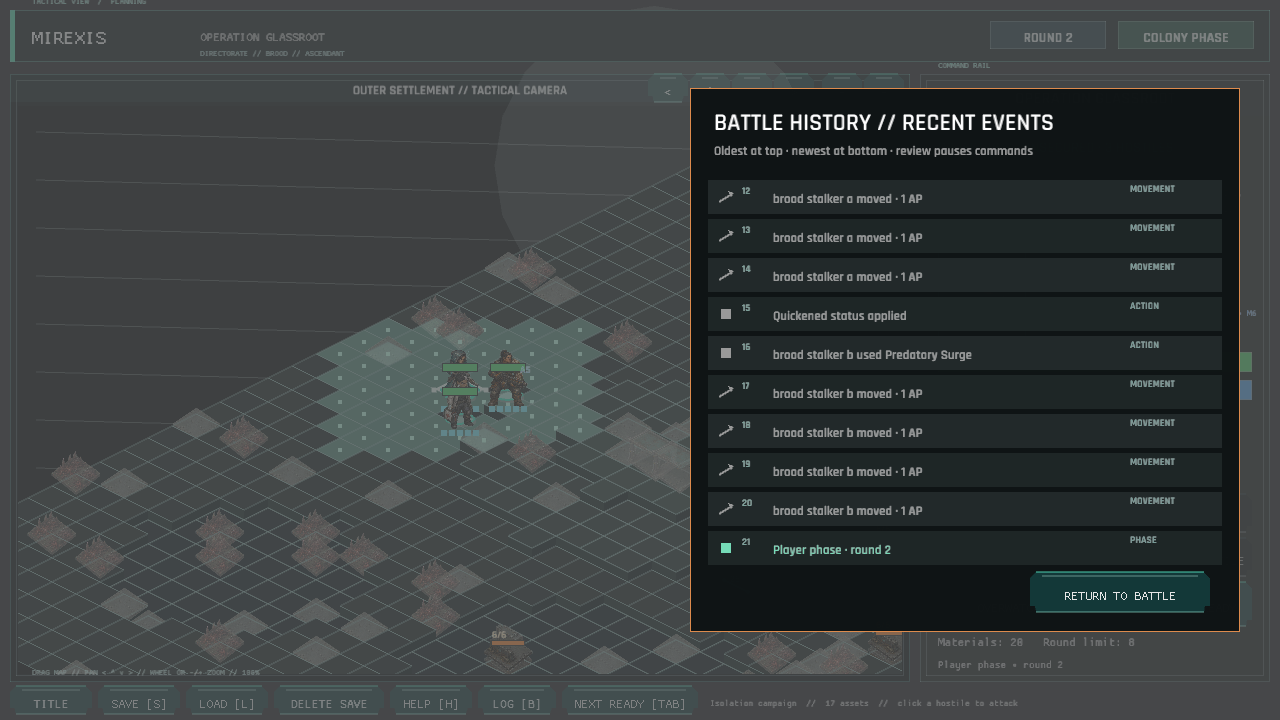
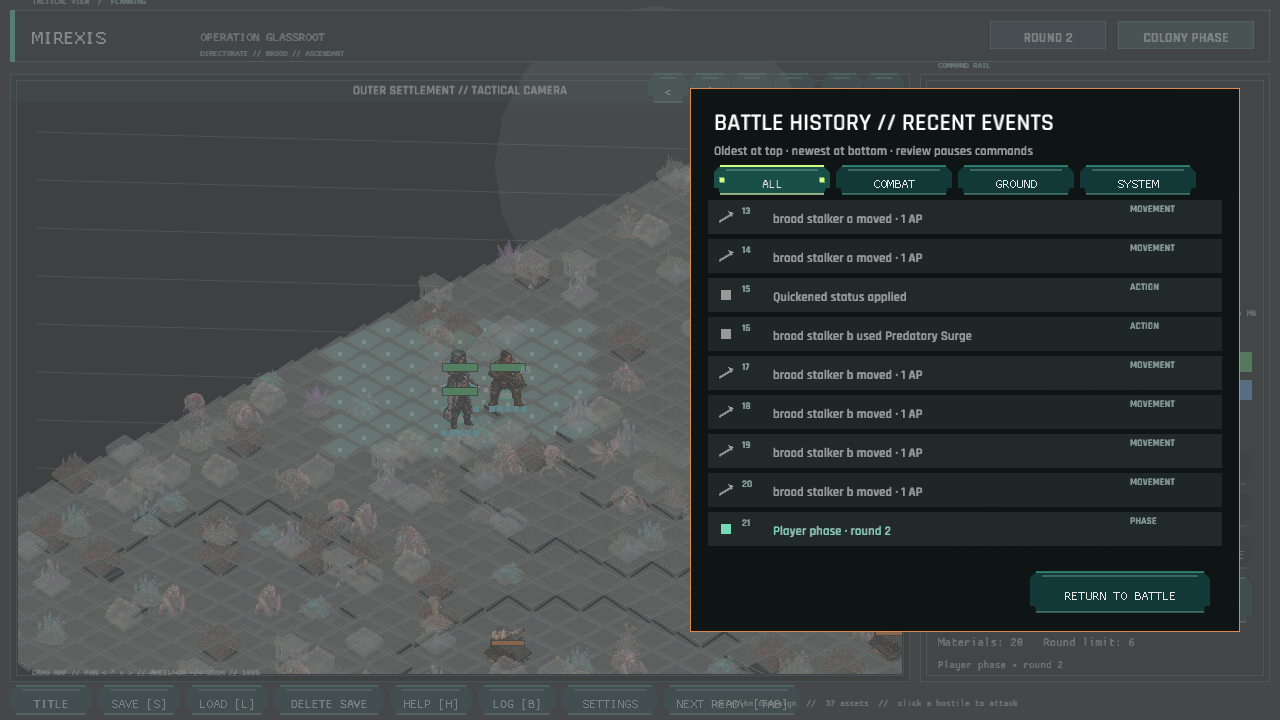
The battle ledger opens its channels to the colony (Battle-log filters, §5.7)
The battle history fulfilled chronology and close, but its long mixed event stream offered no way to isolate the information a player was reviewing. Add touch-visible ALL, COMBAT, GROUND, and SYSTEM filters, preserve original event numbering, and explain the empty-filter state without changing tactical simulation.

Refresh the battle-log capture and integrity ledger, advance the content version to 1.137.0, and extract application bootstrap from the near-limit game module. Verified with formatting, 411 tests, strict clippy, source-size checks, capture audit, parameterless publish.ps1, and browser smoke.

Changed region(s): [[0.0, 0.2139, 0.9375, 1.0]]

diff --git a/src/battle_log_ui.rs b/src/battle_log_ui.rs
@@ -1,14 +1,26 @@
 //! Expandable recent battle-event history over the live tactical field.
 
-use crate::state::GameSession;
+use crate::state::{BattleEvent, GameSession};
 use crate::ui::UiAction;
-use crate::ui_widgets::{button, event_summary};
+use crate::ui_action::BattleLogFilter;
+use crate::ui_widgets::{button, button_with_state, event_summary};
 use macroquad::prelude::*;
 use macroquad_toolkit::prelude::{dark, draw_surface, SurfaceStyle, TextStyle};
 
-const VISIBLE_EVENTS: usize = 10;
+const VISIBLE_EVENTS: usize = 9;
+const FILTERS: [(BattleLogFilter, &str); 4] = [
+    (BattleLogFilter::All, "ALL"),
+    (BattleLogFilter::Combat, "COMBAT"),
+    (BattleLogFilter::Ground, "GROUND"),
+    (BattleLogFilter::System, "SYSTEM"),
+];
 
-pub(crate) fn draw(session: &GameSession, mouse: Vec2, actions: &mut Vec<UiAction>) {
+pub(crate) fn draw(
+    session: &GameSession,
+    filter: BattleLogFilter,
+    mouse: Vec2,
+    actions: &mut Vec<UiAction>,
+) {
     draw_rectangle(0.0, 0.0, 1280.0, 720.0, Color::new(0.01, 0.02, 0.025, 0.62));
     let panel = Rect::new(690.0, 88.0, 550.0, 544.0);
     draw_surface(
@@ -28,13 +40,27 @@ pub(crate) fn draw(session: &GameSession, mouse: Vec2, actions: &mut Vec<UiActio
         panel.y + 67.0,
         TextStyle::new(13.0, dark::TEXT_DIM).params(),
     );
-    let start = session
+    for (index, (option, label)) in FILTERS.iter().enumerate() {
+        let rect = Rect::new(
+            panel.x + 24.0 + index as f32 * 122.0,
+            panel.y + 78.0,
+            116.0,
+            28.0,
+        );
+        if button_with_state(rect, label, true, filter == *option, mouse) {
+            actions.push(UiAction::SetBattleLogFilter(*option));
+        }
+    }
+    let filtered_events = session
         .tactical
         .event_log
-        .len()
-        .saturating_sub(VISIBLE_EVENTS);
-    for (row, event) in session.tactical.event_log[start..].iter().enumerate() {
-        let y = panel.y + 92.0 + row as f32 * 39.0;
+        .iter()
+        .enumerate()
+        .filter(|(_, event)| filter_matches(filter, event))
+        .collect::<Vec<_>>();
+    let start = filtered_events.len().saturating_sub(VISIBLE_EVENTS);
+    for (row, &(event_index, event)) in filtered_events[start..].iter().enumerate() {
+        let y = panel.y + 112.0 + row as f32 * 39.0;
         let row_rect = Rect::new(panel.x + 18.0, y, panel.w - 36.0, 34.0);
         draw_rectangle(
             row_rect.x,
@@ -49,7 +75,7 @@ pub(crate) fn draw(session: &GameSession, mouse: Vec2, actions: &mut Vec<UiActio
         );
         draw_event_icon(event, vec2(row_rect.x + 18.0, row_rect.y + 17.0));
         draw_text_ex(
-            format!("{:02}", start + row + 1),
+            format!("{:02}", event_index + 1),
             row_rect.x + 34.0,
             row_rect.y + 14.0,
             TextStyle::new(10.0, Color::new(0.46, 0.66, 0.62, 1.0)).params(),
@@ -67,11 +93,15 @@ pub(crate) fn draw(session: &GameSession, mouse: Vec2, actions: &mut Vec<UiActio
             TextStyle::new(10.0, Color::new(0.45, 0.62, 0.60, 1.0)).params(),
         );
     }
-    if session.tactical.event_log.is_empty() {
+    if filtered_events.is_empty() {
         draw_text_ex(
-            "No tactical events recorded yet.",
+            if session.tactical.event_log.is_empty() {
+                "No tactical events recorded yet."
+            } else {
+                "No events match this filter."
+            },
             panel.x + 24.0,
-            panel.y + 118.0,
+            panel.y + 236.0,
             TextStyle::new(15.0, dark::TEXT_DIM).params(),
         );
     }
@@ -90,8 +120,31 @@ pub(crate) fn draw(session: &GameSession, mouse: Vec2, actions: &mut Vec<UiActio
     }
 }
 
-fn event_kind(event: &crate::state::BattleEvent) -> &'static str {
-    use crate::state::BattleEvent::*;
+fn filter_matches(filter: BattleLogFilter, event: &BattleEvent) -> bool {
+    filter == BattleLogFilter::All || event_filter(event) == filter
+}
+
+fn event_filter(event: &BattleEvent) -> BattleLogFilter {
+    use BattleEvent::*;
+    match event {
+        AttackRolled { .. }
+        | DamageApplied { .. }
+        | UnitIncapacitated { .. }
+        | OverwatchSet { .. }
+        | ReactionTriggered { .. } => BattleLogFilter::Combat,
+        UnitMoved { .. }
+        | ExtractionCompleted { .. }
+        | CoverDamaged { .. }
+        | CoverDestroyed { .. }
+        | HazardTriggered { .. }
+        | HazardConverted { .. }
+        | ReinforcementsArrived { .. } => BattleLogFilter::Ground,
+        _ => BattleLogFilter::System,
+    }
+}
+
+fn event_kind(event: &BattleEvent) -> &'static str {
+    use BattleEvent::*;
     match event {
         UnitMoved { .. } => "MOVEMENT",
         AttackRolled { .. } | ReactionTriggered { .. } => "ATTACK",
@@ -139,14 +192,18 @@ fn draw_event_icon(event: &crate::state::BattleEvent, center: Vec2) {
     }
 }
 
-fn event_color(event: &crate::state::BattleEvent) -> Color {
+fn event_color(event: &BattleEvent) -> Color {
     match event {
-        crate::state::BattleEvent::DamageApplied { .. }
-        | crate::state::BattleEvent::UnitIncapacitated { .. }
-        | crate::state::BattleEvent::HazardTriggered { .. } => Color::new(0.98, 0.55, 0.38, 1.0),
-        crate::state::BattleEvent::HazardConverted { .. } => Color::new(0.42, 0.94, 0.72, 1.0),
-        crate::state::BattleEvent::PhaseStarted { .. }
-        | crate::state::BattleEvent::BattleEnded { .. } => Color::new(0.46, 0.86, 0.72, 1.0),
+        BattleEvent::DamageApplied { .. }
+        | BattleEvent::UnitIncapacitated { .. }
+        | BattleEvent::HazardTriggered { .. } => Color::new(0.98, 0.55, 0.38, 1.0),
+        BattleEvent::HazardConverted { .. } => Color::new(0.42, 0.94, 0.72, 1.0),
+        BattleEvent::PhaseStarted { .. } | BattleEvent::BattleEnded { .. } => {
+            Color::new(0.46, 0.86, 0.72, 1.0)
+        }
         _ => dark::TEXT_DIM,
     }
 }
+
+#[cfg(test)]
+mod tests;

diff --git a/src/game.rs b/src/game.rs
@@ -32,6 +32,7 @@ use crate::grid_ui::WorldCamera;
 use crate::phase_replay::PhaseReplay;
 use crate::state::{GameSession, MissionOutcome};
 use crate::ui::{self, TargetingView, UiAction, UiContext};
+use crate::ui_action::BattleLogFilter;
 use crate::visual_assets::VisualCatalog;
 use macroquad::prelude::*;
 use macroquad_toolkit::assets::AssetManager;
@@ -62,6 +63,7 @@ pub struct Game {
     targeting: Option<TacticalTargeting>,
     show_tactical_help: bool,
     show_battle_log: bool,
+    battle_log_filter: BattleLogFilter,
     combat_feedback: CombatFeedback,
     observed_event_count: usize,
     phase_replay: PhaseReplay,
@@ -197,6 +199,7 @@ impl Game {
                     }),
                     show_help: self.show_tactical_help,
                     show_battle_log: self.show_battle_log,
+                    battle_log_filter: self.battle_log_filter,
                     show_settings: self.show_settings,
                 },
                 &mut self.tactical_camera,
@@ -705,6 +708,7 @@ impl Game {
                 self.show_tactical_help = false;
                 self.targeting = None;
             }
+            UiAction::SetBattleLogFilter(filter) => self.battle_log_filter = filter,
             UiAction::Save => self.save_game(),
             UiAction::Load => self.load_game(),
             _ => unreachable!("prehandled application action reached the game state match"),

diff --git a/src/battle_log_ui/tests.rs b/src/battle_log_ui/tests.rs
@@ -1,0 +1,45 @@
+use super::*;
+use crate::state::{BattleEvent, TacticalPhase};
+
+fn attack_event() -> BattleEvent {
+    BattleEvent::AttackRolled {
+        attacker_id: "mara_venn".to_owned(),
+        target_id: "brood_stalker_a".to_owned(),
+        roll: 42,
+        hit_chance: 75,
+    }
+}
+
+#[test]
+fn battle_log_filters_group_events_by_player_meaning() {
+    assert_eq!(event_filter(&attack_event()), BattleLogFilter::Combat);
+    assert_eq!(
+        event_filter(&BattleEvent::UnitMoved {
+            unit_id: "mara_venn".to_owned(),
+            path: Vec::new(),
+            cost: 1,
+        }),
+        BattleLogFilter::Ground
+    );
+    assert_eq!(
+        event_filter(&BattleEvent::PhaseStarted {
+            phase: TacticalPhase::Player,
+            round: 1,
+        }),
+        BattleLogFilter::System
+    );
+}
+
+#[test]
+fn all_filter_keeps_every_event_and_specific_filters_reject_other_groups() {
+    let attack = attack_event();
+    let phase = BattleEvent::PhaseStarted {
+        phase: TacticalPhase::Enemy,
+        round: 2,
+    };
+
+    assert!(filter_matches(BattleLogFilter::All, &attack));
+    assert!(filter_matches(BattleLogFilter::Combat, &attack));
+    assert!(!filter_matches(BattleLogFilter::Ground, &attack));
+    assert!(filter_matches(BattleLogFilter::System, &phase));
+}

diff --git a/src/persistence/tests/first_hour.rs b/src/persistence/tests/first_hour.rs
@@ -20,7 +20,7 @@ fn previous_save_without_first_hour_fields_gains_safe_guidance() {
 
     let migrated = migrate_save_value(Some("1.63.0".to_owned()), value, &data).unwrap();
 
-    assert_eq!(migrated.version, "1.136.0");
+    assert_eq!(migrated.version, "1.137.0");
     assert_eq!(migrated.campaign.first_hour, FirstHourProgress::default());
     assert_eq!(migrated.campaign.first_hour.stage, FirstHourStage::Arrival);
     assert_eq!(
@@ -46,7 +46,7 @@ fn previous_save_without_colony_story_fields_gains_an_empty_ledger() {
 
     let migrated = migrate_save_value(Some("1.65.0".to_owned()), value, &data).unwrap();
 
-    assert_eq!(migrated.version, "1.136.0");
+    assert_eq!(migrated.version, "1.137.0");
     assert_eq!(
         migrated.campaign.colony_story,
         crate::colony_story::ColonyStoryState::default()
@@ -72,7 +72,7 @@ fn version_164_keeps_exact_onboarding_progress_and_defaults_metrics() {
 
     let migrated = migrate_save_value(Some("1.64.0".to_owned()), value, &data).unwrap();
 
-    assert_eq!(migrated.version, "1.136.0");
+    assert_eq!(migrated.version, "1.137.0");
     assert_eq!(
         migrated.campaign.first_hour.stage,
         FirstHourStage::SecondReturn

diff --git a/src/game/bootstrap.rs b/src/game/bootstrap.rs
@@ -9,6 +9,7 @@ use crate::grid_ui::WorldCamera;
 use crate::phase_replay::PhaseReplay;
 use crate::state::GameSession;
 use crate::ui::UiAction;
+use crate::ui_action::BattleLogFilter;
 use crate::visual_assets::VisualCatalog;
 use macroquad::prelude::Texture2D;
 use macroquad_toolkit::assets::AssetManager;
@@ -77,6 +78,7 @@ impl Game {
             targeting: None,
             show_tactical_help: false,
             show_battle_log: false,
+            battle_log_filter: BattleLogFilter::All,
             combat_feedback: CombatFeedback::default(),
             observed_event_count: 0,
             phase_replay: PhaseReplay::default(),

diff --git a/src/ui.rs b/src/ui.rs
@@ -118,6 +118,7 @@ pub struct UiContext<'a> {
     pub targeting: Option<TargetingView<'a>>,
     pub show_help: bool,
     pub show_battle_log: bool,
+    pub battle_log_filter: crate::ui_action::BattleLogFilter,
     pub show_settings: bool,
 }
 
@@ -333,7 +334,7 @@ pub fn draw_tactical(
         crate::help_ui::draw(mouse, &mut actions);
     } else if ctx.show_battle_log {
         actions.clear();
-        crate::battle_log_ui::draw(ctx.session, mouse, &mut actions);
+        crate::battle_log_ui::draw(ctx.session, ctx.battle_log_filter, mouse, &mut actions);
     }
     if ctx.phase_replay.is_active() {
         actions.clear();

diff --git a/src/ui_action.rs b/src/ui_action.rs
@@ -3,6 +3,14 @@
 use crate::colony::BuildingKind;
 use macroquad_toolkit::grid::TilePos;
 
+#[derive(Debug, Clone, Copy, PartialEq, Eq)]
+pub enum BattleLogFilter {
+    All,
+    Combat,
+    Ground,
+    System,
+}
+
 #[derive(Debug, Clone, PartialEq, Eq)]
 pub enum UiAction {
     StartMission,
@@ -66,6 +74,7 @@ pub enum UiAction {
     SkipPhaseReplay,
     ToggleTacticalHelp,
     ToggleBattleLog,
+    SetBattleLogFilter(BattleLogFilter),
     AdvanceFirstHour,
     AcknowledgeColonist(String),
     ToggleFirstHourHelp,

diff --git a/src/game/capture_reset.rs b/src/game/capture_reset.rs
@@ -33,6 +33,7 @@ impl Game {
         self.targeting = None;
         self.show_tactical_help = false;
         self.show_battle_log = false;
+        self.battle_log_filter = crate::ui_action::BattleLogFilter::All;
         self.combat_feedback = CombatFeedback::default();
         self.observed_event_count = 0;
         self.phase_replay = PhaseReplay::default();

diff --git a/src/game/persistence_io.rs b/src/game/persistence_io.rs
@@ -126,6 +126,7 @@ impl Game {
         self.targeting = None::<TacticalTargeting>;
         self.show_tactical_help = false;
         self.show_battle_log = false;
+        self.battle_log_filter = crate::ui_action::BattleLogFilter::All;
         self.show_settings = false;
         self.phase_replay.clear();
         self.end_phase_armed = false;

diff --git a/TECHNICAL_DESIGN.md b/TECHNICAL_DESIGN.md
@@ -2,7 +2,7 @@
 
 Status: systems-rich tech demo; playable-game refinement in progress
 Current production target: cohesive first-hour playable build
-Save/content version: 1.136.0
+Save/content version: 1.137.0
 Target platforms: Windows and browser/WASM
 Runtime: Rust 2021, Macroquad, macroquad-toolkit
 
@@ -70,7 +70,7 @@ Important transition payloads:
 | `main.rs` | Window configuration, frame loop, capture entry | Game rules |
 | `action_preview.rs` | Read-only validated movement/attack consequence and rejection projection | State mutation or drawing |
 | `action_preview_ui.rs` | Command banner, movement route, valid-shot tracer, and rejection styling | Command execution |
-| `battle_log_ui.rs` | Command-blocking recent ordered-event history panel | Simulation mutation |
+| `battle_log_ui.rs` | Command-blocking recent ordered-event history panel with semantic filters | Simulation mutation |
 | `combat_feedback.rs` | Bounded transient damage, healing, miss, and status callouts | Simulation mutation or persistence |
 | `briefing_intel_ui.rs` | Materialized contract, hostile, ability, and hazard briefing summary | Mission generation |
 | `briefing_loadout_ui.rs` | Selected colonist derived combat/loadout summary in briefing | Campaign mutation |
@@ -912,6 +912,7 @@ Migration coverage:
 | 1.134.0 | Blocking colony overlays also suppress map gestures, walking, approaches, drawer toggles, and stale camera interaction; no new save fields |
 | 1.135.0 | First-hour help and settings also suppress tactical camera gestures and world-input state; no new save fields |
 | 1.136.0 | Loading a save clears transient overlays, end-phase confirmation, combat feedback, and aligns the audio event cursor with restored tactical history; no new save fields |
+| 1.137.0 | Battle history adds touch-visible ALL, COMBAT, GROUND, and SYSTEM filters while preserving original event numbering; no new save fields |
 
 Every future schema bump must migrate the immediately previous version and add a
 fixture test. Validate saved content IDs before adding content removal or renaming.

diff --git a/docs/verification/UI_GRAPHICS_ACCEPTANCE_MATRIX.md b/docs/verification/UI_GRAPHICS_ACCEPTANCE_MATRIX.md
@@ -137,7 +137,7 @@ Each row must have a post-overhaul PNG in the final capture directory and pass t
 | first_hour_return | First-hour return/recovery handoff | First return names a colonist but does not visibly route or highlight the conversation target | `ui_first_hour_return.png` | PASS |
 | first_hour_promise | First-hour promise consequence | Second-operation outcome does not visibly distinguish a hardened outer route from a breach | `ui_first_hour_promise.png` | PASS |
 | first_hour_operations | First-hour colony handoff | Operations drawer does not make the next briefing action obvious | `ui_first_hour_operations.png` | PASS |
-| battle_log | Battle log | Plain chronological text | `ui_battle_log.png` | PASS |
+| battle_log | Battle log | Chronological event history with touch-visible semantic filters | `ui_battle_log.png` | PASS |
 | combat_feedback | Tactical/feedback | Impact/recoil/critical and miss treatment | `ui_combat_feedback.png` | PASS |
 | phase_replay | Tactical/replay | Weak replay staging | `ui_phase_replay.png` | PASS |
 | end_phase_guard | Tactical/warning | Warning hierarchy is small | `ui_end_phase_guard.png` | PASS |

diff --git a/docs/verification/FINAL_CAPTURE_INVENTORY.md b/docs/verification/FINAL_CAPTURE_INVENTORY.md
@@ -108,7 +108,7 @@ Manifest: `scripts/capture_ui.ps1`
[8 lines of base64/hex data omitted]
